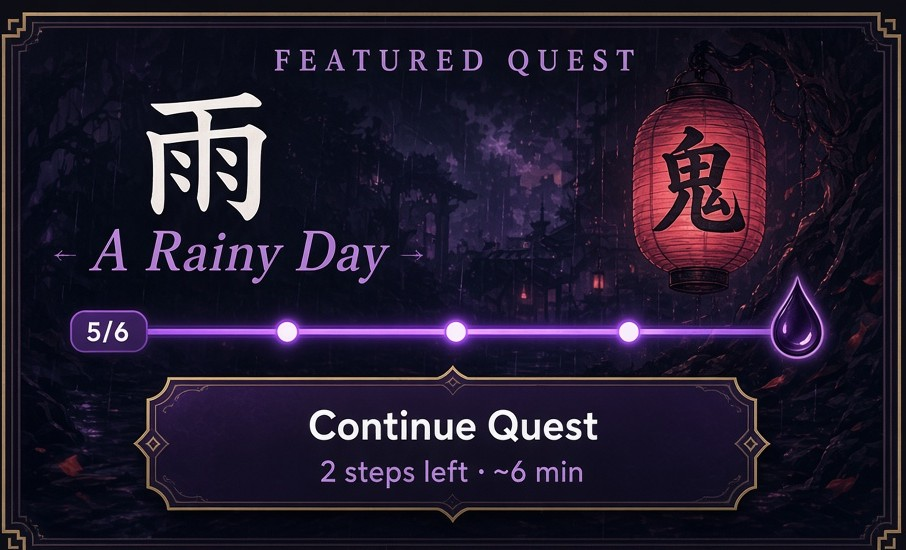
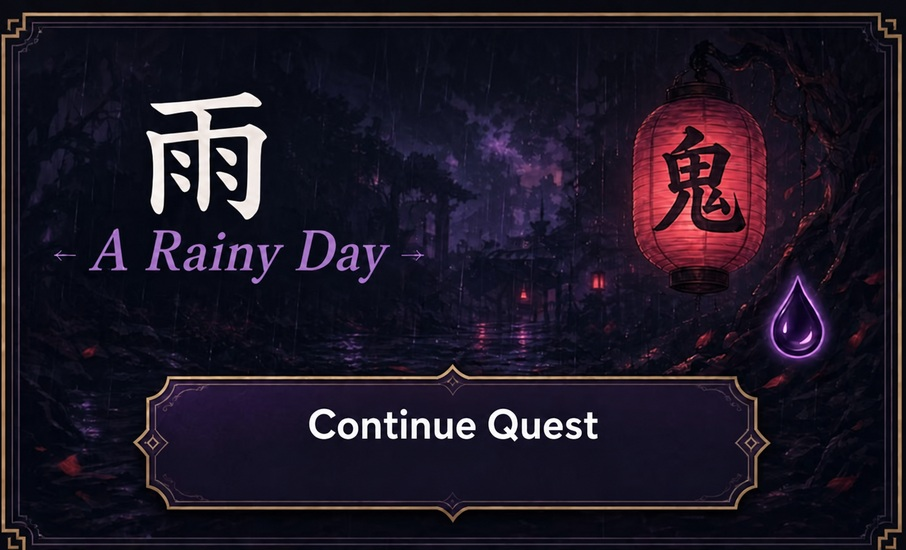
Clean up dashboard quest card

diff --git a/src/components/DashboardQuestCard.tsx b/src/components/DashboardQuestCard.tsx
@@ -19,10 +19,8 @@ type DashboardQuestCardProps = {
 
 // The illustrated panel (/quest-art/featured-quest.jpg) bakes in the frame,
 // art, "FEATURED QUEST", the quest symbol and title, and the Continue frame.
-// Everything that tracks real progress — the region count, the trail nodes,
-// the finial and the "steps left" line — is drawn live on top of a mask that
-// hides the painted trail, so it stays true to the current quest.
-const TRAIL_DOTS = Math.max(2, QUEST_STEPS.length - 2)
+// The raindrop finial is still drawn live so it can respond to quest progress,
+// while the dashboard keeps the rest of the panel visually clean.
 
 export function DashboardQuestCard({
   questProgress,
@@ -37,15 +35,7 @@ export function DashboardQuestCard({
   const complete = !nextQuest
   const quest = nextQuest ?? QUESTS[QUESTS.length - 1]!
   const stepsDone = complete ? QUEST_STEPS.length : completedQuestSteps(questProgress, quest.id)
-  const stepsLeft = QUEST_STEPS.length - stepsDone
-  const questMinutes = Math.max(3, stepsLeft * 3)
-  const arcQuests = QUESTS.filter((item) => item.arcId === quest.arcId)
-  const arcCleared = arcQuests.filter((item) => isQuestComplete(questProgress, item.id)).length
   const dropLit = stepsDone >= QUEST_STEPS.length - 1
-
-  const subtitle = complete
-    ? 'Campaign complete'
-    : `${stepsLeft === 1 ? '1 step left' : `${stepsLeft} steps left`} · ~${questMinutes} min`
 
   return (
     <section
@@ -61,20 +51,7 @@ export function DashboardQuestCard({
         aria-label={complete ? 'Open the campaign map' : `Open quest ${quest.number}: ${quest.title}`}
       />
 
-      <div
-        className="featured-quest-trail"
-        role="img"
-        aria-label={`${stepsDone} of ${QUEST_STEPS.length} steps done · ${arcCleared} of ${arcQuests.length} quests cleared in this region`}
-      >
-        <span className="featured-quest-count">{arcCleared}/{arcQuests.length}</span>
-        <span className="featured-quest-line" />
-        {Array.from({ length: TRAIL_DOTS }).map((_, index) => (
-          <i
-            key={index}
-            className={`featured-quest-node${index < stepsDone ? ' is-done' : ''}`}
-            style={{ left: `${31.7 + (index / (TRAIL_DOTS - 1)) * 37.7}%` }}
-          />
-        ))}
+      <div className="featured-quest-trail" aria-hidden="true">
         <span className={`featured-quest-drop${dropLit ? ' is-lit' : ''}`}>
           <svg viewBox="0 0 24 30" aria-hidden="true">
             <path d="M12 1C12 1 3.5 14 3.5 19.5A8.5 8.5 0 0 0 20.5 19.5C20.5 14 12 1 12 1Z" />
@@ -87,10 +64,8 @@ export function DashboardQuestCard({
         type="button"
         className="featured-quest-cta"
         onClick={onContinueStudy}
-        aria-label={complete ? 'Replay a quest' : `Continue quest — ${subtitle}`}
-      >
-        <span className="featured-quest-cta-sub">{subtitle}</span>
-      </button>
+        aria-label={complete ? 'Replay a quest' : 'Continue quest'}
+      />
     </section>
   )
 }

diff --git a/src/App.css b/src/App.css
@@ -4924,10 +4924,8 @@ body:has(.dashboard) {
 
 /* Featured quest: an illustrated hero for the home page. The frame, art,
    "FEATURED QUEST", quest symbol/title and the Continue frame are baked into
-   /quest-art/featured-quest.jpg. The painted trail is covered by a mask, then
-   the region count, nodes, finial and "steps left" line are drawn live so the
-   panel stays true to the current quest. Trail geometry is calibrated to the
-   art: baseline at 60% of the panel height. */
+   /quest-art/featured-quest.jpg. The raindrop finial is drawn live so it can
+   react to quest progress. */
 .featured-quest {
   position: relative;
   aspect-ratio: 906 / 550;
@@ -5061,8 +5059,7 @@ body:has(.dashboard) {
   stroke: #ffe6a0;
 }
 
-/* Continue — the painted gold frame stays; the tap target and the live
-   "steps left" line are drawn on top. */
+/* Continue — the painted gold frame stays; this transparent layer is the tap target. */
 .featured-quest-cta {
   position: absolute;
   left: 14.5%;
